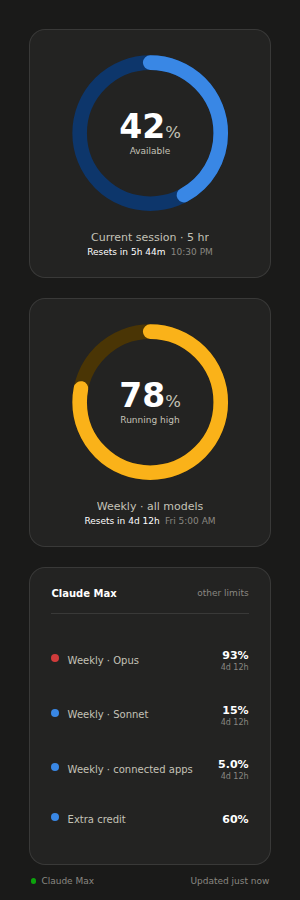
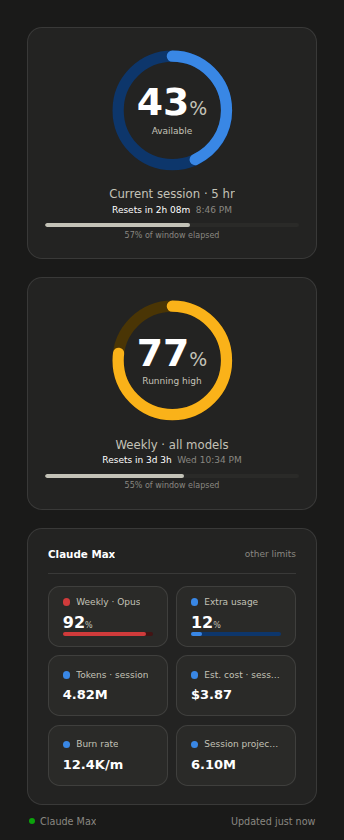
Refresh README screenshots for ring layout; fix tile overflow in cramped slots

diff --git a/helper/index.html b/helper/index.html
@@ -196,16 +196,17 @@
     color: var(--text-muted);
     white-space: nowrap;
   }
-  /* Grid of stat tiles. Rows are capped to a sensible height range (rather
-     than 1fr, which stretched a single row of tiles into tall vertical
-     strips) so tiles stay wide-and-short whether there's 1 or 6 of them;
-     align-content centers the block when it doesn't fill the panel. */
+  /* Grid of stat tiles. The column count is chosen in JS (layoutPanel) from
+     the panel's real width/height and the tile count, so every tile comes out
+     wide-and-short instead of a tall vertical strip - CSS auto-fit can't do
+     that on its own because it only knows the available width, not how many
+     rows will result. Rows are 1fr so tiles fill the panel rather than
+     huddling in the middle. */
   .panelRows {
     flex: 1;
     display: grid;
-    grid-template-columns: repeat(auto-fit, minmax(120px, 1fr));
-    grid-auto-rows: minmax(70px, 150px);
-    align-content: center;
+    grid-template-columns: 1fr;
+    grid-auto-rows: 1fr;
     gap: 1vh;
     min-height: 0;
     overflow: hidden;
@@ -229,7 +230,10 @@
     padding: 1.2vh 1.6vh;
     display: flex;
     flex-direction: column;
-    justify-content: space-between;
+    /* centered (not space-between) so a tall wide card keeps its label, value
+       and sub-line as one tight group instead of flinging them to the edges */
+    justify-content: center;
+    gap: 2cqh;
     min-width: 0;
     min-height: 0;
     overflow: hidden;
@@ -291,7 +295,7 @@
      cap the font a bit smaller than the plain percentage tiles. */
   .tile.noMeter .tileMeter { display: none; }
   .tile.noMeter .tileValue {
-    font-size: clamp(13px, 26cqh, 36px);
+    font-size: clamp(13px, 26cqh, 44px);
   }
 
   .footer {
@@ -515,6 +519,40 @@
     return el;
   }
 
+  // Pick the column count that gets each tile closest to a wide landscape
+  // card. A CSS auto-fit grid only knows the available width, so with 3 tiles
+  // in a tall panel it makes one row of tall strips; this walks every possible
+  // column count and scores the tile aspect ratio each one produces.
+  var TILE_TARGET_ASPECT = 2.6;   // width / height we aim for
+  var panelTileCount = 0;
+  var lastPanelCols = '';
+  function layoutPanel(n) {
+    if (!n) {
+      if (lastPanelCols !== '1fr') { panelRowsEl.style.gridTemplateColumns = '1fr'; lastPanelCols = '1fr'; }
+      return;
+    }
+    var W = panelRowsEl.clientWidth, H = panelRowsEl.clientHeight;
+    if (!W || !H) return;
+    var gap = parseFloat(getComputedStyle(panelRowsEl).rowGap) || 0;
+    var best = 1, bestScore = Infinity;
+    for (var c = 1; c <= n; c++) {
+      var r = Math.ceil(n / c);
+      var tw = (W - gap * (c - 1)) / c;
+      var th = (H - gap * (r - 1)) / r;
+      if (tw <= 0 || th <= 0) continue;
+      // log distance keeps "half the target" and "double the target" equally bad
+      var score = Math.abs(Math.log((tw / th) / TILE_TARGET_ASPECT));
+      if (tw / th < 1.25) score += 3;        // portrait tiles - the thing we're avoiding
+      if (th < 54) score += 2;               // too short to fit label+value+sub
+      if (tw < 110) score += 2;              // too narrow for the value text
+      score += (c * r - n) * 0.12;           // prefer full rows over ragged ones
+      if (score < bestScore) { bestScore = score; best = c; }
+    }
+    var css = 'repeat(' + best + ', 1fr)';
+    if (css !== lastPanelCols) { panelRowsEl.style.gridTemplateColumns = css; lastPanelCols = css; }
+  }
+  window.addEventListener('resize', function () { layoutPanel(panelTileCount); });
+
   function fillReset(inEl, atEl, lim, now) {
     if (lim.resets_at) {
       var t = new Date(lim.resets_at);
@@ -645,6 +683,7 @@
     });
 
     // ---- side panel: grid of stat tiles (remaining limits + local token/cost stats) ----
+    panelTileCount = panelKeys.length;
     if (panelKeys.length === 0) {
       if (!panelRowsEl.querySelector('.panelEmpty')) {
         panelRowsEl.innerHTML = '<div class="panelEmpty">Nothing else to show</div>';
@@ -684,6 +723,7 @@
         renderStatTile(el, def);
       });
     }
+    layoutPanel(panelTileCount);
 
     if (state.fetchedLocal) {
       var ago = Math.max(0, Math.round((now - state.fetchedLocal) / 60000));

diff --git a/widget/index.html b/widget/index.html
@@ -227,13 +227,15 @@
     background: var(--surface-3);
     border: 1px solid var(--hairline);
     border-radius: 1.4vh;
-    padding: 1.2vh 1.6vh;
+    /* padding tracks the tile's own box so cramped layouts (a narrow vertical
+       slot with 6 tiles) don't spend half their height on whitespace */
+    padding: clamp(3px, 7cqh, 9px) clamp(6px, 4cqw, 17px);
     display: flex;
     flex-direction: column;
     /* centered (not space-between) so a tall wide card keeps its label, value
        and sub-line as one tight group instead of flinging them to the edges */
     justify-content: center;
-    gap: 2cqh;
+    gap: clamp(1px, 2cqh, 8px);
     min-width: 0;
     min-height: 0;
     overflow: hidden;
@@ -296,6 +298,18 @@
   .tile.noMeter .tileMeter { display: none; }
   .tile.noMeter .tileValue {
     font-size: clamp(13px, 26cqh, 44px);
+  }
+  /* When a tile gets genuinely short (lots of tiles in a small slot), shed the
+     least important lines rather than clipping every line at once. The value
+     is the point of the tile, so it's the last thing to go. NB: container
+     queries measure the CONTENT box, so these thresholds sit well below the
+     tile's outer height. */
+  @container (max-height: 58px) {
+    .tile .tileSub { display: none; }
+  }
+  @container (max-height: 38px) {
+    .tile .tileMeter { display: none; }
+    .tile .tileLabel { font-size: 9px; }
   }
 
   .footer {

diff --git a/README.md b/README.md
@@ -8,11 +8,16 @@ Claude Code for actual coding sessions on this PC — local token counts,
 estimated cost, burn rate, and a session-end projection. The same numbers
 Claude Code shows in `/usage`, always on your desk.
 
-![Widget in a small slot](docs/widget-small.png)
+![Full-width Edge slot](docs/widget-fullwidth.png)
 
-Adapts to any Edge slot — small, full-width, or vertical:
+The layout adapts to whatever slot you drop it in. The panel picks its own
+column count from the slot's shape, so the stat tiles stay wide and readable
+instead of collapsing into thin strips, and drops the secondary line when a
+slot is too short for it:
 
-![Full-width](docs/widget-fullwidth.png)
+| Small slot | Vertical slot |
+|---|---|
+| ![Small slot](docs/widget-small.png) | ![Vertical slot](docs/widget-vertical.png) |
 
 ## How it works
 
